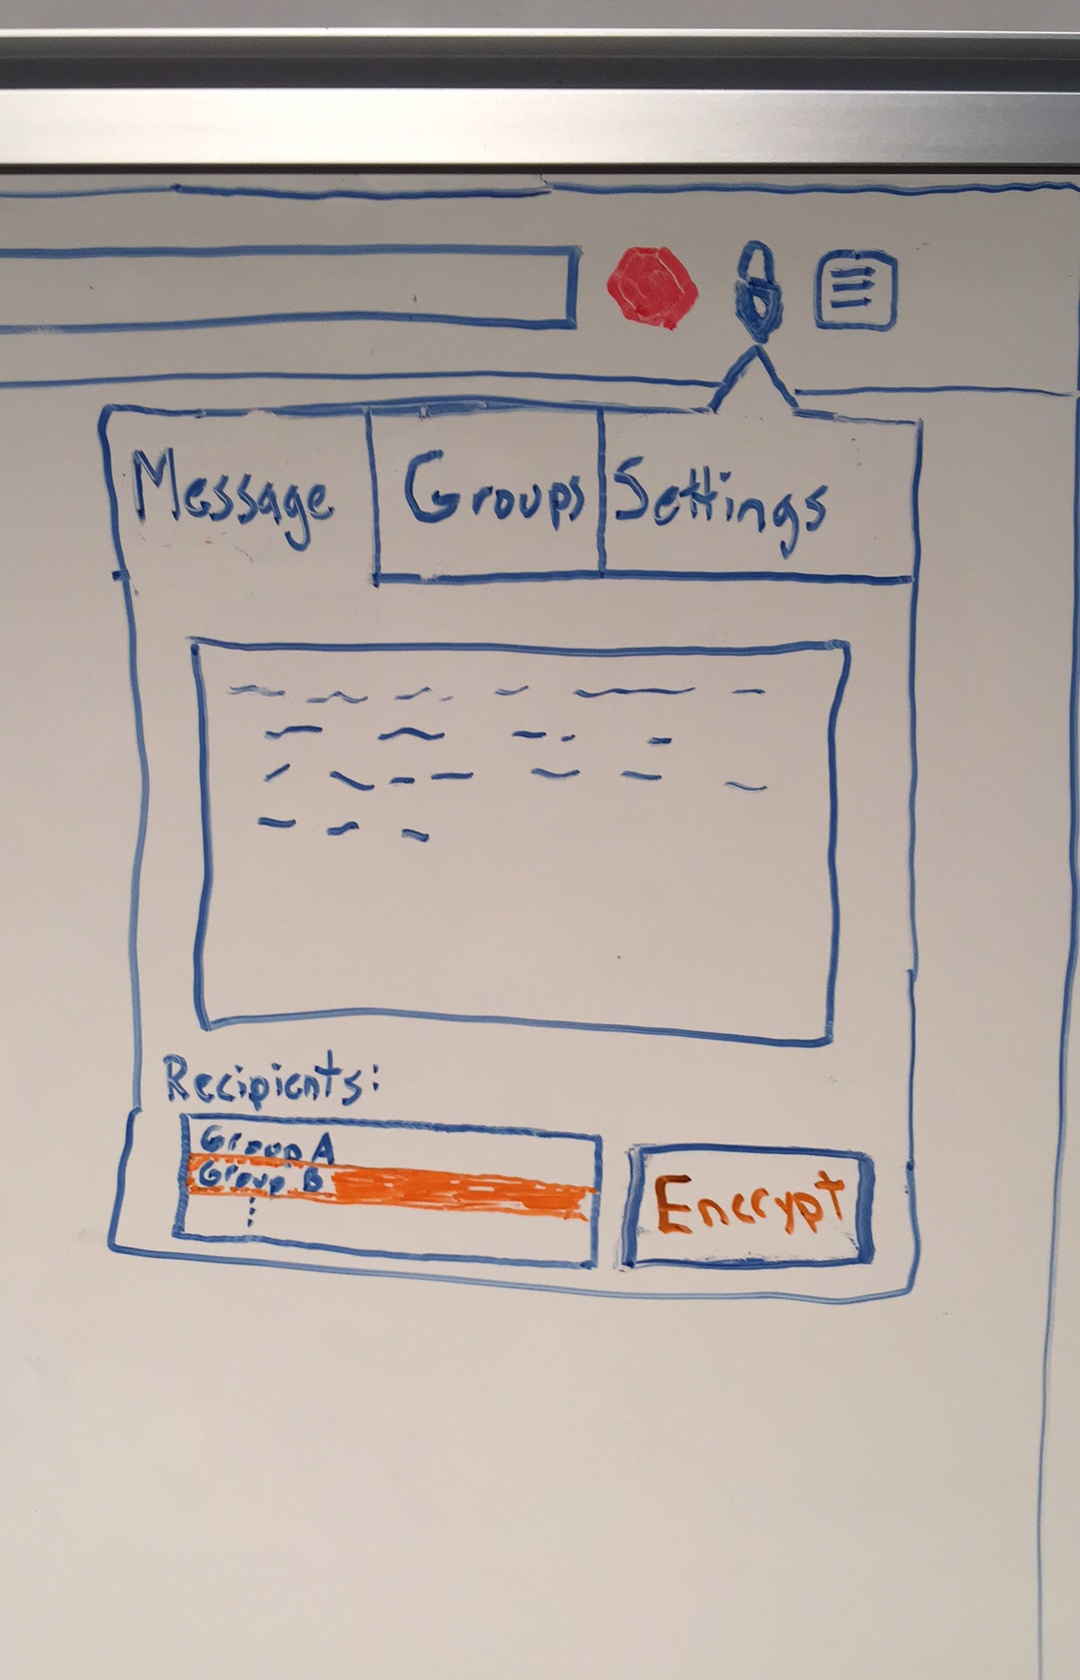
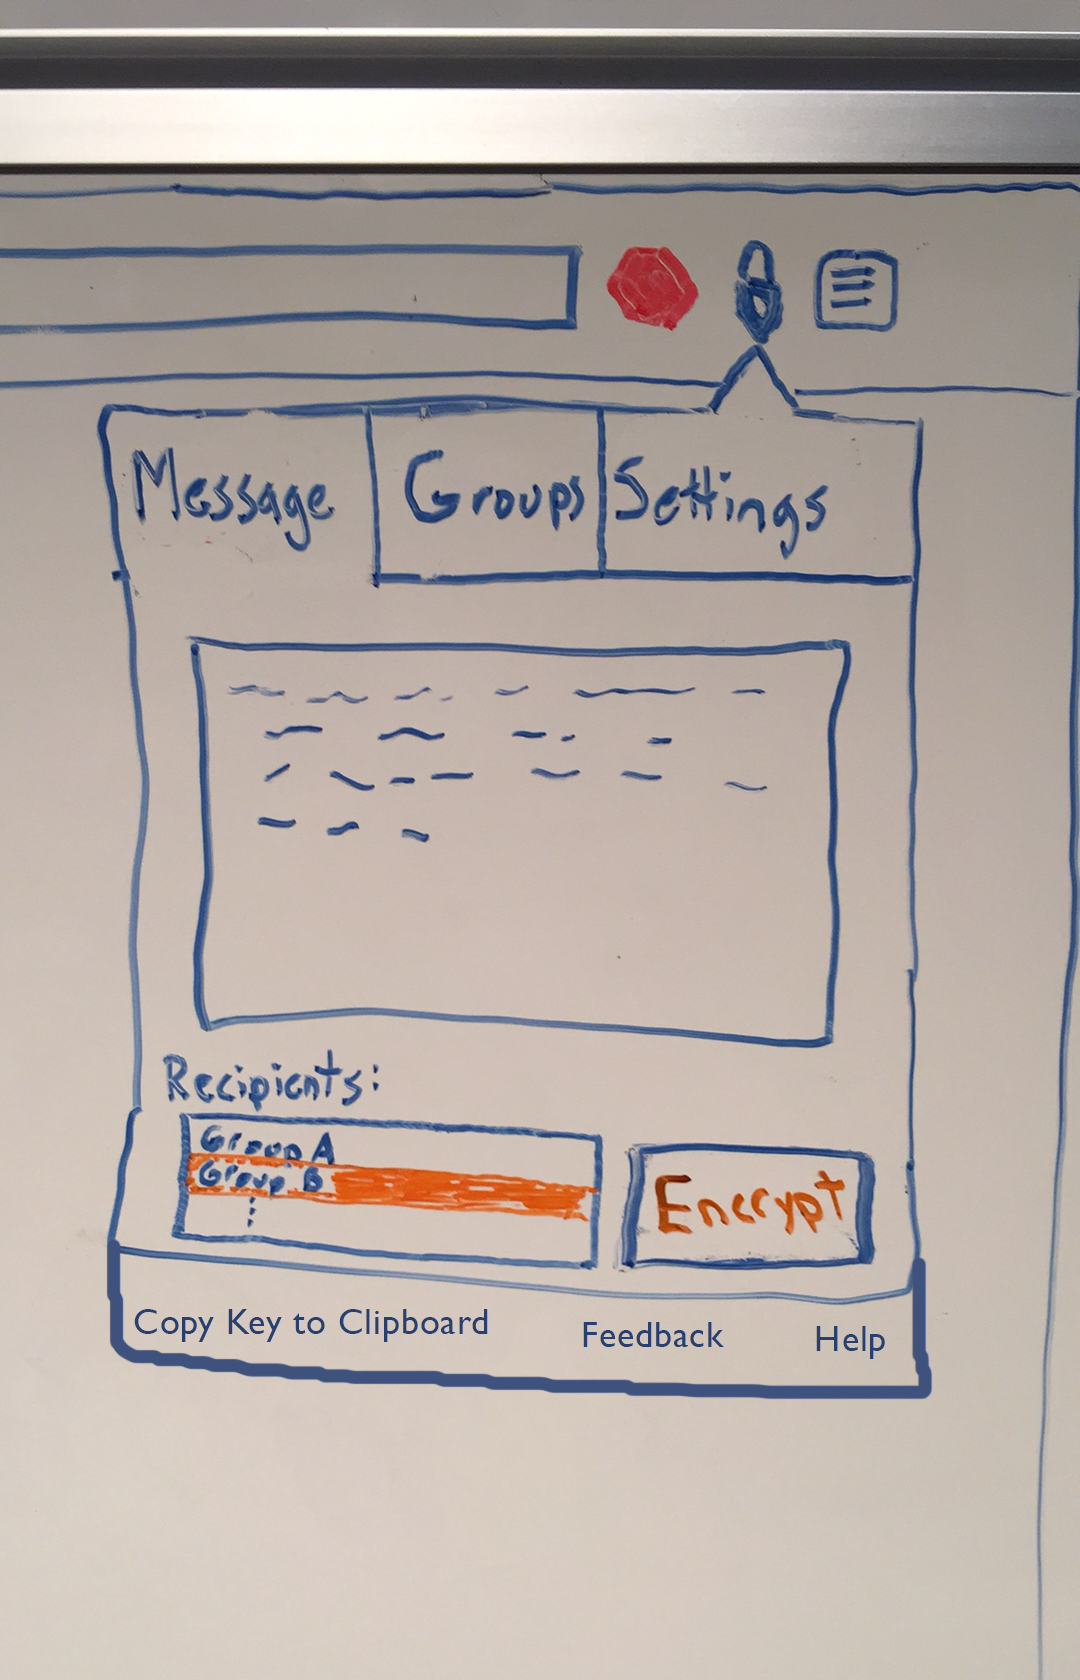
Updated interfaces.html to reflect recent decisions. Photoshopped main_view_photo.PNG to include a share key button (per Pozefsky’s Request) and to include a feedback & help button (per Winston’s request).

Changed region(s): [[0.0917, 0.7429, 0.8861, 0.8357]]

diff --git a/general_materials/interfaces.html b/general_materials/interfaces.html
@@ -3,33 +3,20 @@
         <h1>Interfaces</h1>
         <ul>
             <li><h2>Dropdown (upper right corner)</h2></li>
-            <ul>
-                <li><h3><a href="https://comp523grdme.github.io/general_materials/interface_images/main_view_photo.PNG">Message</a></h3></li>
-                <li><h3><a href="https://comp523grdme.github.io/general_materials/interface_images/group_view_photo.PNG">Groups</a></h3></li>
-                <li><h3><a href="https://comp523grdme.github.io/general_materials/interface_images/settings_view_photo.PNG">Settings</a></h3></li>
-            </ul>
-        </ul>  
-        <br>
-        <h1>Old Interfaces</h1>
-        <ul>
-            <li><h2>Dropdown (upper right corner)</h2></li>
                 <ul>
-                    <li>This interface will be a dropdown menu that is displayed by clicking the grd me icon in the upper right corner of the browser. It's presentation and usability will remain very similar to how it is currently implemented. <img src="interface_images/main_drop_down.png" alt="main_interface" style="width:415px;height:524px;"></li>
-                    <li>This drop down will provide an interface for: Managing contacts, managing groups of contacts, managing your identities</li>
+                    <li>This interface will be a dropdown menu that is displayed by clicking the grd me icon in the upper right corner of the browser. It will present a tabbed view will have a tab for (1) Encryption and Key sending, (2) Group/Contact Management, (3) Settings.</li>
+                    <li>Current Implementation:<br> <img src="interface_images/main_drop_down.png" alt="main_interface" style="width:415px;height:524px;"></li>
+                    <li>Sketches of new tab structure:</li>
+                    <ul>
+                        <li><h3><a href="https://comp523grdme.github.io/general_materials/interface_images/main_view_photo.PNG">Message</a></h3></li>
+                        <li><h3><a href="https://comp523grdme.github.io/general_materials/interface_images/group_view_photo.PNG">Groups</a></h3></li>
+                        <li><h3><a href="https://comp523grdme.github.io/general_materials/interface_images/settings_view_photo.PNG">Settings</a></h3></li>
+                    </ul>
                 </ul>
             <li><h2>Keyboard Shortcuts</h2></li>
                 <ul>
                     <li>The user will primarily use keyboard shortcuts to interact with grd me durring regular use (sending encrypted messages)</li>
-                    <li>[ctrl]/[cmd]+e will display at text box &amp; group selection pop up window</li>
-                </ul>
-            <li><h2>Pop-up Window (Protected Textbox)</h2></li>
-                <ul>
-                    <li>This window will be displayed by the keyboard shortcut [ctrl]/[cmd]+e</li>
-                    <li>Its primary purpose is to protect the clear text message from sites that capture partially written messages (Facebook)</li>
-                    <li>Its secondary purpose is to allow the user to select which group of contacts he/she is communicating with. This selection will occur with a list of contact groups below the textbox, with the previously used group being preselected.</li>
-                    <li>Once the message is typed, [ctrl]/[cmd]+e or clicking a button will copy the encrypted message to the user's clipboard and close the window.</li>
-                    <li>The interface will remain similar to the current implementation (see image below), but with the addition of the group selection and "copy" button elements below the textbox.</li>
-                    <li><img src="interface_images/protected_textbox.png" alt="protected_textbox" style="width:323px;height:280x;"> </li>
+                    <li>[ctrl]/[cmd]+e will display the dropdown menu displaying the "Message" tab</li>
                 </ul>
             <li><h2>Automatic Text Replacement</h2></li>
                 <ul>
@@ -39,10 +26,27 @@
                     <li>This process will require no action from the user</li>
                     <li><li><img src="interface_images/autoreplace_text.png" alt="protected_textbox" style="width:1004px;height:252x;"></li>
                 </ul>
+                <li><h2>Automatic Key Detection</h2></li>
+                    <ul>
+                        <li>Grd Me will detect Grd Me keys on a page automaticly.</li>
+                        <li>Just as it displays a lock icon next to decrypted text, it will display an icon next to a found key.</li>
+                        <li>Clicking this icon will import the key into your key/contact list</li>
+                        <li>Adding keys WILL NOT happen automaticly</li>
+                    </ul>
             <li><h2>Settings Panel</h2></li>
                 <ul>
                     <li>This will be accessed through the browser's extension management window (i.e. browser > extensions > Grd Me > options)</li>
                     <li>It will contain more advanced options, such as importing/exporting a database of recieved messages.</li>
+                </ul>
+            <li><h2>Pop-up Window (Protected Textbox)</h2></li>
+                <ul>
+                    <li><h3>**This interface component has been replaced by the tabbed drop down, and will no longer be a part of the program**</h3></li>
+                    <li>This window will be displayed by the keyboard shortcut [ctrl]/[cmd]+e</li>
+                    <li>Its primary purpose is to protect the clear text message from sites that capture partially written messages (Facebook)</li>
+                    <li>Its secondary purpose is to allow the user to select which group of contacts he/she is communicating with. This selection will occur with a list of contact groups below the textbox, with the previously used group being preselected.</li>
+                    <li>Once the message is typed, [ctrl]/[cmd]+e or clicking a button will copy the encrypted message to the user's clipboard and close the window.</li>
+                    <li>The interface will remain similar to the current implementation (see image below), but with the addition of the group selection and "copy" button elements below the textbox.</li>
+                    <li><img src="interface_images/protected_textbox.png" alt="protected_textbox" style="width:323px;height:280x;"> </li>
                 </ul>
         </ul>
     </body>
